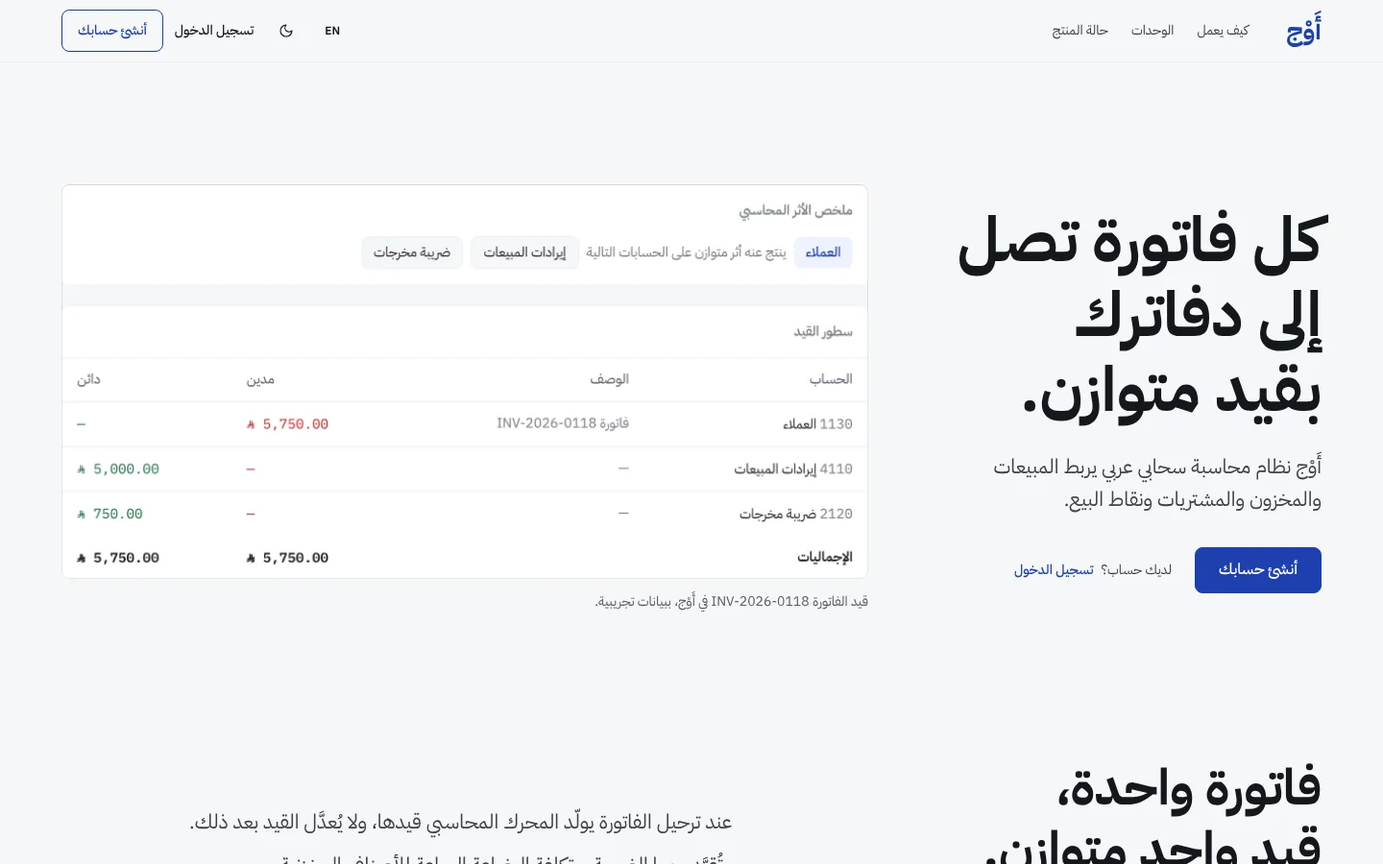
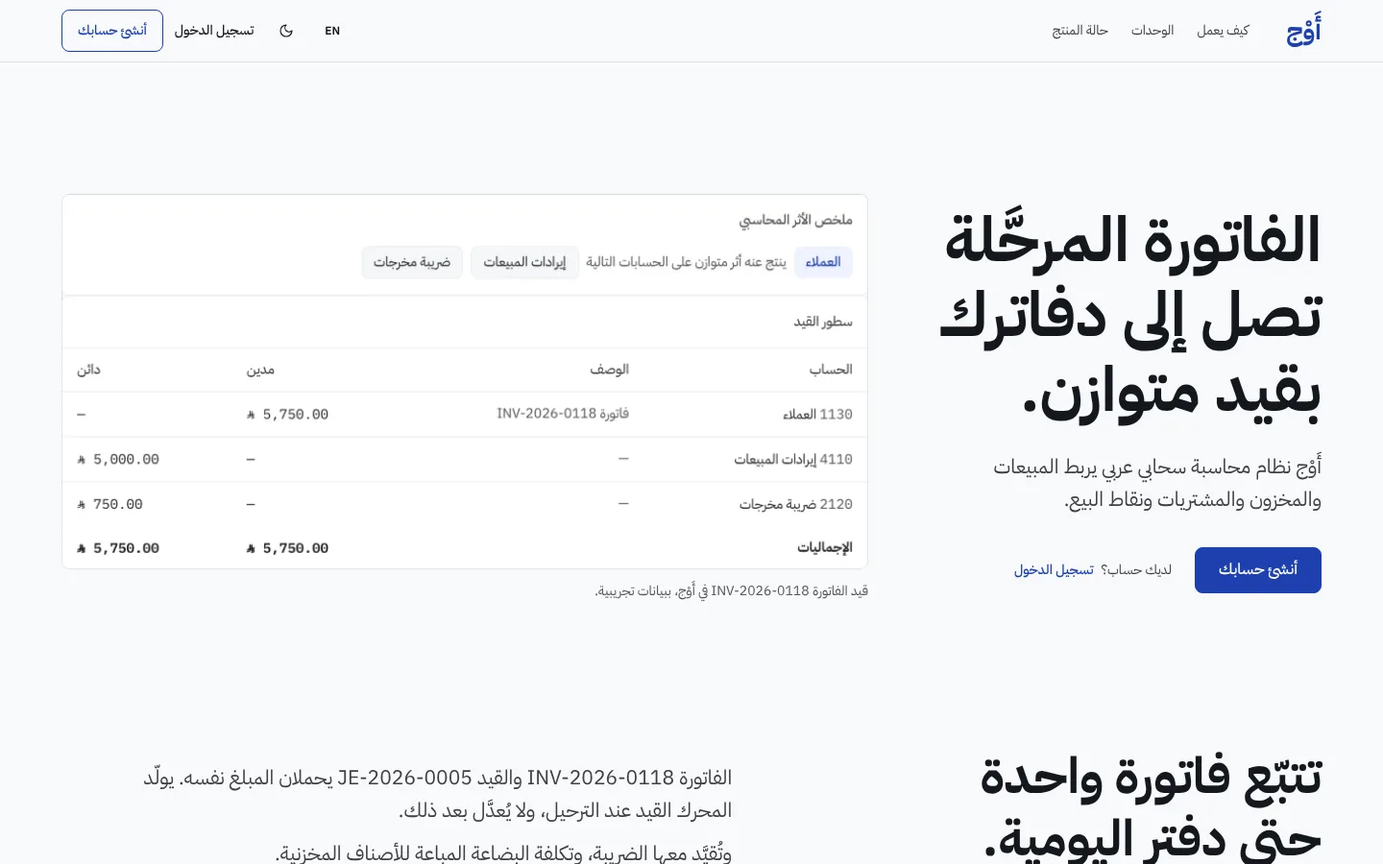
docs(web): landing report updated with Core adoption and second-review results
Claude-Session: https://claude.ai/code/session_01PGrToCuxFgSVir6H6hUdMG

diff --git a/docs/reports/AWJ_LANDING_HALLMARK_REDESIGN_REPORT.md b/docs/reports/AWJ_LANDING_HALLMARK_REDESIGN_REPORT.md
@@ -1,119 +1,107 @@
-# تقرير: إعادة تصميم صفحة الهبوط العامة لأَوْج بمهارة Hallmark
+# تقرير: صفحة الهبوط العامة لأَوْج — Hallmark + سمة Core (PR #1759)
 
-> الحالة: **PR #1759 مفتوح وجاهز للمراجعة، دون دمج ودون نشر.**
-> النطاق: صفحة `/` ومكوّناتها المباشرة فقط. لا مساس بالمحاسبة ولا API ولا قاعدة البيانات ولا المصادقة.
+> الحالة: **PR #1759 مفتوح، دون دمج ودون نشر، بانتظار موافقتك.**
+> النطاق: صفحة `/` ومكوّناتها المباشرة. لا مساس بالمحاسبة ولا API ولا قاعدة البيانات ولا المصادقة ولا ملفات السمات المشتركة.
 
-## 1. ملخص التطوير
+## 1. ما تغيّر في هذه الجولة (فوق جولتي التنفيذ والتصحيح السابقتين)
 
-**الفكرة.** الصفحة القديمة كانت «لوحة تحكم + ست بطاقات + شرائح» تصلح لأي منتج. الصفحة الجديدة تبدأ بالدليل الذي لا يملكه إلا نظام قيد مزدوج: فاتورة حقيقية والقيد المتوازن الذي ولّدته، ملتقَطين من المنتج نفسه.
-
-| ما تغيّر | التفصيل |
+| المحور | ما نُفِّذ |
 |---|---|
-| الهيرو | عنوان «كل فاتورة تصل إلى دفاترك بقيد متوازن.» وسطر واحد وزر «أنشئ حسابك» (لم يكن في الصفحة القديمة أي زر تسجيل). الصورة قيد `JE-2026-0005` الحقيقي: مدين العملاء 5,750.00، ودائن المبيعات 5,000.00 والضريبة 750.00، والإجماليان متساويان. |
-| فاتورة ← قيد | شريطان حقيقيان (قائمة الفواتير وقائمة القيود) والصفّان المتطابقان `INV-2026-0118` و`JE-2026-0005` مُبرَزان بإطار. على الجوال تُعرض بطاقتان حقيقيتان بدل الشريطين. |
-| الوحدات | مبدّل من خمس وحدات (المبيعات، نقطة البيع، المشتريات والمخزون، الحسابات، التقارير) بلقطة حقيقية مقصوصة على المنطقة التي تسميها. لوحة المفاتيح مدعومة، وعلى الجوال تُمرَّر اللقطة أفقياً لتبقى مقروءة. |
-| الجوال | لقطات جوال حقيقية لا تكرر ما في الأقسام الأخرى (لوحة التحكم وبطاقتا مشتريات). |
-| الوضوح والثقة | جدول **«ما يعمل اليوم، وما لم يكتمل»** من ست صفوف بحالات جاهزة / جاهزة جزئياً / قيد التطوير، وسطر «لا عملاء نعرضهم بعد»، وأربعة ضوابط حقيقية (عزل المؤسسات، الأدوار، قيود لا تُعدَّل، مبالغ بالهللات) مع جملة «لا نذكر شهادات لم نحصل عليها». |
-| الختام | كتلة بلون الهوية بزر «أنشئ حسابك» ورابط الدخول. |
-| التنقل | شريط علوي بحافتين (الشعار ثم ثلاثة روابط، وعند الطرف اللغة والسمة والدخول و«أنشئ حسابك»)، وقائمة منسدلة تحت 960px. |
+| **سمة Core** | الصفحة العامة تعمل بسمة AWJ Core (أزرق الهوية) في الفاتح والداكن، عبر السمات المشتركة نفسها لا عبر نظام مكرر. التفاصيل في §2. |
+| **الهوية التسويقية** | لغة تسويقية فوق الرموز المشتركة (أسطح وكتلة هوية وحركة)، دون نقل كثافة الـERP: كتلة الختام بلون Core وفيها القيد مرة أخرى عند لحظة التسجيل، وزر تسجيل بعد جدول الحالة، ورأس جدول الحالة مكدَّس بدل نمط «رأس وفقرة متقابلان» الموحّد، وأُعيد التقاط لقطات الهيرو والجوال. |
+| **مراجعة بصرية مستقلة ثانية** | وكيلان في سياق جديد (سطح مكتب وجوال). حكما `fix`؛ طُبِّقت دفعة إصلاح واحدة (§3). |
+| **المحتوى والجاهزية والصور** | أُنجز في الجولة السابقة ولم يُكرَّر: الادعاءات، جدول الحالة، اللقطات المحايدة، حذف الصور القديمة الأربع، وPR #1760 لزر اللغة. |
 
-**تصحيحات صدق المحتوى** (مهمة، تستحق قرارك):
+## 2. سمة Core
 
-1. الصفحة القديمة قالت «فواتير ضريبية متوافقة مع المرحلتين». في الكود التوقيع والإرسال لهيئة الزكاة **معطَّلان** بانتظار الشهادات والبيئة الآمنة. كُتبت الحالة كما هي في الجدول: المرحلة الأولى (QR) جاهزة، والتوقيع والإرسال معطَّلان.
-2. قسم «القطاعات» وعد بالأسطول والحجوزات والتصنيع وأوامر الشغل، وكلها `coming_soon` في `ApplicationCatalog`. حُذف القسم، وهذه الوحدات مدرجة الآن في صف «ليست متاحة بعد».
-3. نص «جرّب ببيانات تجريبية» وُجد دون أي رابط يوصل إليه، وزر الدخول التجريبي لا يظهر إلا في بناء `NEXT_PUBLIC_DEMO_PREVIEW=true`. استُبدل بزر تسجيل حقيقي (`/register`) دون وعد بتجربة مجانية أو أسعار.
+**مصدر الرموز (الحقيقة الواحدة):** `design-system/tokens/awj.tokens.json` ← `theme.core.light` / `theme.core.dark` (13 رمزاً) فوق `primitive.brand.*`، وتولّدها `web/scripts/generate-awj-tokens.mjs` في `web/src/app/globals.css` تحت `html[data-awj-ui="3"][data-awj-theme="core"]`. القيم المعتمدة (THEMES.md §6A): القشرة **`#1E40AF`** فاتح و**`#1E3A8A`** داكن، ونص أبيض في الوضعين.
 
-## 2. مقارنة قبل وبعد
+**عقبة بنيوية وجدتُها:** Core يعمل فقط تحت بوابة الإصدار 3 (`data-awj-ui="3"`)، ومسار `/` **مستثنى عمداً** من تلك البوابة (`AWJ_UI_EXCLUDED_PATH_PATTERN`). فرموز Core غير موجودة على الصفحة العامة ما لم تُطبَّق السمتان صراحةً. وتعديل البوابة أو المولّد أو `globals.css` ممنوع بقيدك، ونسخ القيم إلى `landing.css` كان سيخلق نظام ألوان مكرراً بقيم ثابتة. لذلك:
 
-| المقياس | قبل | بعد |
-|---|---|---|
-| Hallmark (أرضية `FAIL`) | 2 | **0** |
-| Hallmark (`REFLEX`) | 5 (3، 26b، 59، 77، 78) | **0** |
-| Hallmark (`WARN`) | 3 (29، F19، F26) | **0** |
-| زر تسجيل حساب | لا يوجد | الشريط والهيرو والختام |
-| صور المنتج | لقطتان قديمتان تحملان اسم العلامة السابقة داخل الواجهة، يتداخل معهما الشرح | 56 لقطة WebP حديثة (ar/en × فاتح/داكن)، شرحها مفصول عنها |
-| الكلمات المرئية | 533 | 316 |
-| ارتفاع الصفحة على الجوال (375px) | 7,687px | 6,647px |
-| عناوين الأقسام (1440) | 30px تحت عنوان 58px | 52px تحت عنوان ≈ 65px |
-| صفحة العميل (client JS) | `'use client'` كاملة مع `useTheme` وحالة `themeReady` | Server Component، والتبديل بين الفاتح/الداكن بـ CSS فقط |
-| ترتيب التحميل | يعرض هيكلاً نابضاً حتى hydration | لا هيكل ولا إزاحة (CLS = 0) |
+| القرار | التنفيذ |
+|---|---|
+| تطبيق Core بالبنية الموجودة | `landing-theme-script.ts` (سكربت قبل الرسم، من ثوابت `awj-theme.ts` و`awj-ui-gate.ts`) و`landing-theme.tsx` (يُبقي السمتين طوال عمر الصفحة). السمة الافتراضية للصفحة العامة = Core. |
+| لا تغيير لتفضيل المستخدم | لا كتابة في `localStorage`. يحفظ المكوّن القيم السابقة ويعيدها عند المغادرة (يعالج StrictMode وسبق السكربت). |
+| لا ألوان ثابتة | `landing.css` بلا أي hex/rgb/hsl (يحرسه اختبار)؛ كتلة الختام تقرأ `--awj-shell-bg` و`--awj-shell-fg`…، والأسطح من `--awj-surface-band/paper/desk`. البدائل (`var(--primary)`…) رموز قائمة وتعمل فقط إن غابت السمتان. |
+| لا خيارات سمات في الصفحة | لا محدِّد ولا استيراد لـ`setAwjTheme`/`AccountPreferencesCard` (يحرسه اختبار). |
 
-الصور (الملفات في `docs/reports/assets/landing-hallmark/`):
+**ما تبيّن بالتجربة (وعولج):**
+1. بوابة الإصدار 3 تُعيد ربط `--background` على لون «المكتب» البيج `#E9E8E4` في الفاتح؛ فاشتققتُ للصفحة التسويقية سطحاً من رموز مشتركة (`--awj-surface-band` للصفحة و`paper` للوحات في الفاتح، و`desk` و`paper` في الداكن) بدل أن تظهر الصفحة بلون الـERP.
+2. حلقة التركيز المشتركة تساوي لون الهوية نفسه، فتختفي (1:1) على كتلة Core؛ كشفها sloplint (`FAIL 26a`). أُصلحت بقاعدة محصورة بالكتلة.
+
+**تحقق فعلي في متصفح حقيقي** (الإنتاج المبني): بلا تفضيل مخزّن، ومع `awj:theme=ink`، تكون `/` على `ui=3, theme=core`؛ و`/login` تحميلاً مباشراً أو بالانتقال من الصفحة تعود إلى حالتها (`null/null` أو `ink`)، و`localStorage` لم يتغيّر. **Default وInk لم أفحصهما تفصيلياً** (كما طلبت)؛ تأكدتُ فقط أن الملفات المشتركة بلا تعديل: `git diff` على `globals.css` و`awj-theme.ts` و`awj-ui-gate.ts` و`design-system/` و`web/scripts/` و`tailwind.config.ts` فارغ.
+
+| Core فاتح — الختام | Core داكن (إنجليزي) — الختام |
+|---|---|
+| ![](assets/landing-hallmark/after-core-light-ar-close-1440.webp) | ![](assets/landing-hallmark/after-core-dark-en-close-1440.webp) |
 
 | قبل (1440×900) | بعد (1440×900) |
 |---|---|
 | ![قبل](assets/landing-hallmark/before-1440x900.webp) | ![بعد](assets/landing-hallmark/after-1440x900.webp) |
 
-| قبل (375px، أول ثلاث شاشات) | بعد (375px، أول ثلاث شاشات) |
+## 3. المراجعة البصرية المستقلة الثانية
+
+الحكم الأول لكل منهما: **fix**. التقييم بعد الإصلاح مني وحدي (لم أجرِ جولة ثالثة).
+
+| الملاحظة | الحال |
 |---|---|
-| ![قبل](assets/landing-hallmark/before-375-first-3-screens.webp) | ![بعد](assets/landing-hallmark/after-375-first-3-screens.webp) |
+| قائمة الفواتير تظهر ثلاث مرات (تدفق، تبويب المبيعات) | **جزئي**: تبويب «نقطة البيع» صار الأول. تبويب «المبيعات» ما زال يشبه قائمة قسم التدفق إن فُتح. |
+| قسم الجوال يبدو مكسوراً (رأس سفلي، قصّ وسط رسم) | **حُلّ**: الرأس في الأعلى، واللقطة تنتهي عند حدّ بطاقة، والنص يطابق الصور («لوحة التحكم وفواتير المشتريات»). |
+| لقطة الهيرو ناعمة، فراغ بين البطاقتين، نص ثانوي شاحب، المدين أحمر | **حُلّ** (إعادة التقاط: مبالغ بلون الحبر، لا فراغ، نص أغمق). لم ألتقط بدقة أعلى؛ الملف كما هو (≈2x). |
+| نفس التكوين في كل الأقسام | **جزئي**: رأس جدول الحالة مكدَّس. قسما التدفق والوحدات على نمطهما. |
+| لغة «ملاحظات داخلية» (تكرار «ببيانات تجريبية»، «لا عملاء نعرضهم بعد») | **حُلّ**: سطر إفصاح واحد في الهيرو وواحد في جدول الحالة؛ ملاحظة الأمان صارت «هذه الضوابط مطبّقة في النظام نفسه لا في الواجهة وحدها»؛ «أرقام بلا كسور عائمة» صارت «مبالغ مالية دقيقة». |
+| نص قسم الوحدات صغير وضعيف | **حُلّ** (حجم المقدمة). |
+| عنوان الهيرو الإنجليزي خمسة أسطر | **حُلّ** (ثلاثة أسطر، عمود أوسع). |
+| لا زر تسجيل على الجوال بعد الهيرو | **حُلّ** بزر بعد جدول الحالة (لا زر في شريط الجوال: لا يتسع). |
+| كتلة الختام نصفها فارغ | **حُلّ**: القيد `JE-2026-0005` على الكتلة في الشاشات ≥ 960px، ومخفي على الجوال لتجنّب التكرار. |
+| تكرار «فاتورة ← قيد» على الجوال | **جزئي**: رأس قسم التدفق صار «تتبّع فاتورة واحدة حتى دفتر اليومية»، لكن الهيرو وبطاقتي القسم تعرض البيانات نفسها. |
+| لا مؤشر لتمرير لقطات الوحدات على الجوال | **حُلّ جزئياً**: سطر «مرّر أفقياً…»؛ صف التبويبات نفسه بلا تدرّج. |
+| «جاهزة» بلون الروابط | **حُلّ**. |
+| لا رابط لمعاينة المنتج | **غير منفَّذ**: لا مسار معاينة عام مؤكد، ولم أخترع واحداً. |
 
-### أبرز الأسطر المتغيّرة
-
-| الموضع | قبل | بعد |
-|---|---|---|
-| عنوان الهيرو | أدر مبيعاتك ومصاريفك ومخزونك من مكان واحد. | كل فاتورة تصل إلى دفاترك بقيد متوازن. |
-| سطر الهيرو | يجمع أَوْج الفوترة والمخزون والمتابعة المالية في تجربة واحدة عملية، لتراقب أداء منشأتك من سطح المكتب أو الجوال. | أَوْج نظام محاسبة سحابي عربي يربط المبيعات والمخزون والمشتريات ونقاط البيع. |
-| الإجراء الرئيسي | «شاهد المزايا» (رابط داخلي) | «أنشئ حسابك» ← `/register` |
-| ZATCA | فواتير ضريبية متوافقة مع المرحلتين، ورمز QR، وسلسلة هاش PIH. | المرحلة الأولى برمز QR جاهزة. التوقيع والإرسال إلى الهيئة معطَّلان حتى تتوفر الشهادات والبيئة الآمنة. |
-| تذييل الصفحة | © 2026 أَوْج — منصة سحابية متكاملة لإدارة المؤسسات. | © 2026 أَوْج. منصة سحابية متكاملة لإدارة المؤسسات. (الشرطة الطويلة ممنوعة في بوابة النسخ 19) |
-
-المحذوف عن عمد (مسجَّل في ترويسة `landing.css`): أقسام `industries` و`journey` و`about` و`start`، وبطاقات الميزات الست، وشريط «واجهة عربية واضحة / تجربة متجاوبة / رؤية مالية عملية»، وبطاقات قصة الشركة والرؤية، ومعالج النقر على رابط التخطي (يتولى المتصفح نقل التركيز إلى `main[tabindex=-1]` بالقفز إلى المعرّف). النصوص الأصلية محفوظة في تاريخ git.
-
-## 3. الملفات المتغيّرة
+## 4. الملفات المتغيّرة (قياساً على `origin/main`)
 
 | الملف | التغيير |
 |---|---|
-| `web/src/app/page.tsx` | إعادة كتابة كاملة: Server Component، `generateMetadata` (وصف مترجم) |
-| `web/src/app/landing.css` | جديد: أنماط الصفحة بنطاق `.lp`، رموز، ترويسة Hallmark |
-| `web/src/components/landing/landing-nav.tsx` | جديد: شريط علوي وقائمة الجوال (Esc يعيد التركيز للزر) |
-| `web/src/components/landing/landing-shot.tsx` | جديد: لقطتان لكل سمة، الأبعاد من جدول واحد |
-| `web/src/components/landing/module-tabs.tsx` | جديد: مبدّل الوحدات (أسهم تراعي RTL وHome/End) |
-| `web/src/messages/ar.json` و`en.json` | استبدال كتلة `landing` فقط (98 مفتاحاً متطابقاً) |
-| `web/src/app/landing-messages.test.ts` | جديد: تكافؤ ar/en ووجود كل مفتاح تستعمله الصفحة |
-| `web/public/landing/*.webp` | 56 لقطة جديدة (≈ 2 MB) |
+| `web/src/app/page.tsx` | Server Component؛ سكربت Core + `LandingTheme`؛ كتلة الختام بالقيد؛ زر بعد جدول الحالة؛ ترتيب الوحدات |
+| `web/src/app/landing.css` | أنماط `.lp`؛ رموز Core والأسطح التسويقية؛ حركة دخول واحدة (transform/opacity) |
+| `web/src/components/landing/landing-theme.tsx` | **جديد**: دورة حياة سمة Core |
+| `web/src/components/landing/landing-theme-script.ts` | **جديد**: سكربت ما قبل الرسم |
+| `web/src/components/landing/landing-nav.tsx`, `landing-shot.tsx`, `module-tabs.tsx` | شريط، لقطات (جدول الأبعاد مُولَّد من الملفات)، مبدّل الوحدات |
+| `web/src/messages/ar.json`, `en.json` | كتلة `landing` فقط |
+| `web/src/app/landing-messages.test.ts`, `landing-theme.test.tsx` | اختبارات الرسائل (7) والسمة (8) |
+| `web/public/landing/*.webp` | 56 لقطة؛ أُعيد التقاط الهيرو والجوال (12) في هذه الجولة |
+| `web/public/landing/dashboard-*.png` | **حُذفت الأربع** (تأكد أنها غير مستعملة) |
 | `docs/reports/...` | هذا التقرير وصوره |
 
-لم يُحذف أي ملف ولم يُعدَّل أي اختبار قائم. الصور القديمة الأربع `web/public/landing/dashboard-*.png` **باقية دون استعمال** (انظر القيود).
+لم يُعدَّل ملف مشترك. زر اللغة في PR منفصل #1760.
 
-## 4. نتائج الفحوص
+## 5. نتائج الفحوص (على الحالة النهائية للشيفرة)
 
 | الفحص | النتيجة |
 |---|---|
-| TypeScript (`tsc --noEmit`) | صفر أخطاء في ملفات الصفحة. المشروع يحمل 55 خطأ **موجوداً على `main`** في ملفات اختبار أخرى (مثل `pos/settings/configuration/page.test.tsx`)، لم أمسّها. |
-| Lint (`next lint`) | **لم يُنفَّذ**: المستودع بلا ESLint ولا إعداد له (الأمر يطلب تهيئة تفاعلية)؛ لم أضف تهيئة لأنها خارج النطاق. |
-| Build (`npm run build`) | ناجح. المسار `/`: 5.38 kB، First Load JS 140 kB (المشترك 103 kB). |
-| الاختبارات | 19 ملفاً / 99 اختباراً ناجحاً، منها حارس الشعار `erp-ux-h1-7f` (فئات شريط الدعوة) و`brand-migration-guard` والاختبار الجديد. لم أشغّل المجموعة الكاملة (ضخمة ولا تمس الصفحة). |
-| Hallmark `sloplint --render --kept` | **0 FAIL، 0 REFLEX، 0 WARN**. سجل المحتوى: الروابط 4/4، العناوين الثلاثون الساقطة مسجّلة بأسبابها. |
-| axe (WCAG 2.2 AA + best-practice) | إنجليزي (فاتح وداكن، مكتب وجوال): **صفر**. عربي: مخالفة واحدة (`label-content-name-mismatch`) على زر اللغة المشترك (`LangToggle`: الاسم «تبديل اللغة» والنص المرئي «EN»). المكوّن مشترك بين التطبيق كله فلم أغيّره. |
-| الأداء (إنتاج محلي بلا تقييد) | CLS = 0 في الحالات الثلاث المقيسة. LCP 172–232 ms. هذه أرقام مختبر محلي وليست Core Web Vitals ميدانية. |
-| الفيضان الأفقي | لا فيضان عند 320 و375 و414 و768 و1024 و1280 و1440 و1920 (عربي وإنجليزي). |
-| لوحة المفاتيح | تبويبات الوحدات (RTL: السهم الأيسر للتالي، End للأخير)، القائمة (تُفتح وEsc يغلقها ويعيد التركيز للزر)، رابط التخطي ينقل التركيز إلى `main`. |
-| تقليل الحركة | لا حركة سوى انتقال لون 120ms، ويُعطَّل تحت `prefers-reduced-motion`. |
-| الصور | فاتحة أو داكنة فقط تُحمَّل (الأخرى `display:none` فلا تُجلب)، وأبعاد كل ملف محجوزة، وجدول الأبعاد في `landing-shot.tsx` مُولَّد من الملفات الـ56 نفسها (لا اختلاف). |
+| TypeScript | صفر أخطاء في ملفات الصفحة (55 خطأ قائماً على `main` في اختبارات أخرى، لم أمسّها) |
+| Lint | **لم يُنفَّذ**: لا ESLint مهيَّأ في المستودع |
+| الاختبارات ذات الصلة | **315 اختباراً في 24 ملفاً ناجحة**: رسائل الصفحة، سمة الصفحة، `erp-ux-h1-7f` و`brand-migration-guard`، `i18n`، `components/layout`، `awj-theme` و`awj-ui-gate`، `design/` (يشمل `core-theme.test.ts`). لم أشغّل المجموعة الكاملة |
+| Build | ناجح؛ `/` = 6.1 kB، First Load JS 141 kB |
+| Hallmark `sloplint --render` | **0 FAIL، 0 REFLEX، 0 WARN** (بعد إصلاح FAIL 26a وREFLEX 79/44c أثناء الجولة). `--kept` غير متاح (فُقد سجل `before`) |
+| axe (فاتح/داكن × ar/en، 1440 و375) | إنجليزي: **صفر**. عربي: مخالفة واحدة على `LangToggle` المشترك — **تبقى حتى دمج #1760** |
+| أداء مخبري محلي | CLS = 0؛ LCP 152–280 ms (ليست مقاييس ميدانية) |
+| فيضان أفقي / لوحة المفاتيح | لا فيضان (320–1920)؛ تبويبات RTL، القائمة، رابط التخطي تعمل |
+| سمة Core | فاتح وداكن عبر ar/en على 1440 و375 (لقطات)؛ دورة الحياة في متصفح حقيقي |
+| CI على PR | قيد التشغيل وقت كتابة هذا التقرير (اختبارات PHP على sqlite وpgsql، و`web build`، و`CI Gate`)؛ النتيجة تُذكر في وصف الـPR |
 
-## 5. المراجعة البصرية
+## 6. المخاطر والقيود
 
-- **ما شاهدتُه فعلاً** (لقطات حقيقية من النسخة المبنية): الهيرو عند 1440 و1280 و768 و375 بالعربية الفاتحة والداكنة والإنجليزية الفاتحة والداكنة، وأقسام الصفحة كلها عند 1440، وعند 375 الهيرو والتدفق والوحدات والجوال والحالة والختام، وعرض 768 للوحدات. لم أعاين الأقسام كلها في كل تركيبة لغة وسمة؛ فحص axe والفيضان غطّيا التركيبات.
-- **مراجعتان في سياق مستقل (وكيلان فرعيان):** مراجعة الهيرو ومراجعة الإنهاء. كلتاهما حكمت `fix`.
-  - الهيرو (5 ملاحظات): حُلّت أربع (الصورة صارت القيد نفسه، قصّ نظيف دون أشرطة التطبيق، العنوان حتى 68px (≈ 65px عند 1440)، هيرو الجوال صار القيد)، و**جزئية واحدة**: صورة الهيرو ≈ 840×410 عند 1440 (≈ 46% من ارتفاع الشاشة، دون عتبة 60% الإرشادية) لأن قص بطاقتي الملخص والسطور بنسبة عريضة.
-  - الإنهاء (8 ملاحظات): حُلّت التكرارات (هيرو الجوال والأقسام لقطات مختلفة)، وقصاصات الوحدات مقروءة قرابة 1:1، وصفّا الفاتورة والقيد مُبرَزان، وزر «أنشئ حسابك» في الشريط، والنص الصغير أُغمق (`--lp-ink-3`)، وعناوين الوحدات والضوابط أُعيدت صياغتها، وأُضيف صف الموارد البشرية. **جزئياً:** كتلة الختام نصفها فارغ، وإيقاع الأقسام (حاو/نطاق متناوب) ما زال منتظماً، وحالة ZATCA في الجدول لا في الهيرو.
-  - لم أُجرِ جولة تقييم ثانية بوكيل مستقل؛ التقييم بعد الإصلاح مني أنا، ومثبَّت بنتائج sloplint وaxe والقياسات أعلاه.
-- **ما فعلته الصفحة القديمة أفضل:** قسم «القطاعات» يجيب «هل هذا لنشاطي؟» (حُذف لأن وعوده غير مبنية)، وكانت تُظهر اتساع المنتج في أول شاشة (لوحة التحكم + الجوال) بينما الهيرو الآن يركّز على القيد وحده.
-
-## 6. المخاطر والقيود المتبقية
-
-1. **اللقطات من وضع المعاينة** (بيانات تجريبية) وكلها معلَنة بتعليق «ببيانات تجريبية». تظهر فيها شركة العرض `نبراس الطموح` وأسماء عملاء تجريبية بالعربية حتى في النسخة الإنجليزية. تأكد أن ذلك مقبول تجارياً.
-2. **اللقطات ثابتة**: أي تغيير لاحق في واجهات المنتج يتطلب إعادة الالتقاط. سكربت الالتقاط استُعمل من مجلد مؤقت ولم يدخل المستودع؛ أوصي بتحويله إلى أمر موثّق.
-3. **زر اللغة** (`LangToggle`) يخالف WCAG 2.5.3 في العربية (اسمه لا يحوي نصه المرئي). الإصلاح في المكوّن المشترك ويحتاج قراراً لأنه يمس رأس التطبيق كله.
-4. **حجم المستند**: HTML الصفحة ≈ 882 KB (≈ 200 KB مضغوطاً) لأن `layout.tsx` يمرّر **كتالوج الترجمة كاملاً** إلى كل صفحة. موجود قبل هذا العمل وخارج النطاق؛ تقليصه يفيد LCP على الجوال البطيء أكثر من أي تعديل في الصفحة.
-5. **ادعاءات من المالك أُبقيت كما وجدتها**: «أكثر من 60 مجالاً» (جملة واحدة في جدول الحالة، دون رقم كبير) و«اختُبر في تشغيل شركة حقيقية قبل أن يصل إلى أي عميل». تحقق منهما.
-6. **سلاسل وبنية**: صف الموارد البشرية كُتب «جاهزة جزئياً: ملفات الموظفين والورديات والأدوار» اعتماداً على كتالوج التطبيقات (`hr.employees` مبنية والبقية `coming_soon`) رغم أن شاشة HR تحوي تبويبات للحضور والرواتب. حدّث الصف متى حسمتَ نضج الرواتب والحضور.
-7. **ما أُبقي ولم يُحذف**: ملفات `web/public/landing/dashboard-*.png` القديمة (تحمل علامة قديمة داخل الواجهة) باقية دون استعمال؛ الحذف يحتاج موافقتك.
-8. **مشكلة منتج لاحظتُها** ولم أعرضها: معاينة مستند الفاتورة تكتب «ريال» نصاً بعد المبالغ، بينما `DESIGN_SYSTEM.md` يفرض الرمز `𞸁`. لذلك لم ألتقط شاشة المستند.
-9. **مهارة Hallmark** غير مدمجة في `main` (فرع `chore/add-hallmark-skill`)؛ لذلك لم تدخل ملفاتها هذا الـPR ولا مجلد `.hallmark`.
-10. قصاصة «المبيعات» مقطوعة عند حافتها: جدول الفواتير أعرض من القصاصة (826px) فيظهر آخر عمود («السداد») ناقصاً عند الحافة. غير مؤثر على المحتوى لكنه ملحوظ بصرياً.
-11. لا اختبارات واجهة آلية للمظهر (لا Playwright لهذه الصفحة)؛ التحقق البصري يدوي كما وُصف.
+1. **قرار معماري يستحق مراجعتك:** Core صُمِّمت سمة قشرة لتطبيق الـERP تحت بوابة v3، والصفحة العامة مستثناة منها. تطبيقها هنا يغيّر سمتين على `<html>` طوال عمر الصفحة (وتُعاد عند المغادرة). بدائل رفضتُها: تعديل البوابة (ممنوع)، أو نسخ القيم (نظام مكرر). إن فضّلتَ سمة تسويقية رسمية داخل المولّد فهي شريحة منفصلة.
+2. **كل قواعد v3 تعمل على الصفحة** (ربط `--primary` وحلقة التركيز…)، وقد وجدتُ تصادماً واحداً (الحلقة) وعالجتُه؛ أي قاعدة v3 تُضاف لاحقاً قد تصطدم. اختبارات الصفحة لا تغطي المظهر البصري آلياً.
+3. **لقطات المنتج** من وضع المعاينة بنصوص محايدة مستبدَلة وقت الالتقاط (نص فقط، والأرقام والتخطيط كما هي). نصوص اللقطات صغيرة نسبياً على الجوال (≈10–11px)، وإعادة الالتقاط بعرض أضيق لم تُنفَّذ.
+4. **أسماء المراجع على الجوال:** `JE-2026-0005` قد تنكسر عند الواصلة في سطر ضيق.
+5. **حالة الموارد البشرية «جاهزة»** استناداً للقوائم والمسارات، بينما كتالوج التطبيقات يعدّ الرواتب والحضور والطلبات `coming_soon`. قرارك.
+6. **ادعاءان حُذفا من الصفحة في الجولة السابقة:** «أكثر من 60 مجالاً» و«اختُبر في شركة حقيقية»؛ أعدهما فقط بدليل.
+7. حجم HTML ≈ 880 KB بسبب تمرير كتالوج الترجمة كاملاً من `layout.tsx` (قائم قبل هذا العمل، خارج النطاق).
+8. لا رابط لمعاينة المنتج لأن لا مسار عاماً مؤكداً؛ ولا قسم «قطاعات» لعدم وجود ما يثبته.
+9. الاختبارات الآلية للمظهر غير موجودة؛ التحقق البصري يدوي.
 
 ## 7. Branch وPR وSHA
 
@@ -122,14 +110,14 @@
 | Branch | `feat/landing-hallmark-redesign` |
 | PR | #1759 — https://github.com/safwan5001-source/Nebrax/pull/1759 |
 | Base | `main` |
-| Base SHA (وقت الإنشاء) | `585691b97a0bd65b848ee0cf12d1e2430b28a8c7` |
-| Head SHA (الشيفرة) | `c6dc3bee23d3f549522531570f3a79dc1f6cb9cc` |
-| Head SHA (بعد إضافة هذا التقرير) | يُذكر في رسالة التسليم وفي هذا الـPR (التقرير وحده يضيف التزاماً) |
-| حالة الدمج | `main` تقدّم إلى `c7d8ccf` بتعديلات على ملفي الرسائل في أقسام أخرى؛ الدمج المحاكى **نظيف**. |
+| Merge-base | `585691b97a0bd65b848ee0cf12d1e2430b28a8c7` |
+| `origin/main` وقت الكتابة | `3f331dd49e46b94f8a415bca3b3ea5881e62247b` |
+| Head SHA (الشيفرة) | `02c1ddf5801d2f3bb505c52018a44bdb5fb98f74` |
+| Head SHA (بعد هذا التقرير) | يُذكر في وصف الـPR ورسالة التسليم |
+| PR المرافق | #1760 (زر اللغة، فرع `fix/lang-toggle-label-in-name`) |
 
-## 8. الخطوة التالية المقترحة
+## 8. الخطوة التالية
 
-1. مراجعتك للصفحة (سطح مكتب وجوال، عربي وإنجليزي) والقرار في البنود 1 و3 و5 و6 و7.
-2. بعد الموافقة: دمج الـPR. النشر قرار منفصل.
-3. بعد الدمج بأسبوع: قياس Core Web Vitals الميدانية (Vercel Analytics) ومعدل الضغط على «أنشئ حسابك».
-4. شريحة لاحقة: تقليص كتالوج الترجمة المرسل إلى الصفحات العامة، وإصلاح `LangToggle`، وإضافة قسم «القطاعات» من جديد بما هو مبني فعلاً (التجزئة، الخدمات) حين يتوفر دليل.
+1. قرارك في §6 (البند 1 خاصة) والبنود 5–6.
+2. موافقتك على دمج #1760 أولاً ثم #1759؛ لا دمج ولا نشر قبلها.
+3. بعد الدمج: قياس ميداني لـCore Web Vitals ونقر «أنشئ حسابك».
